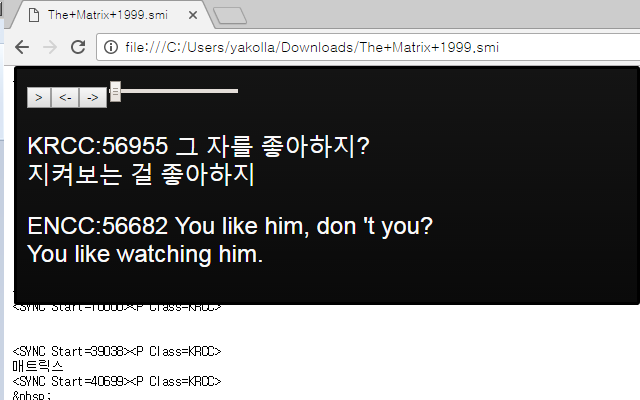
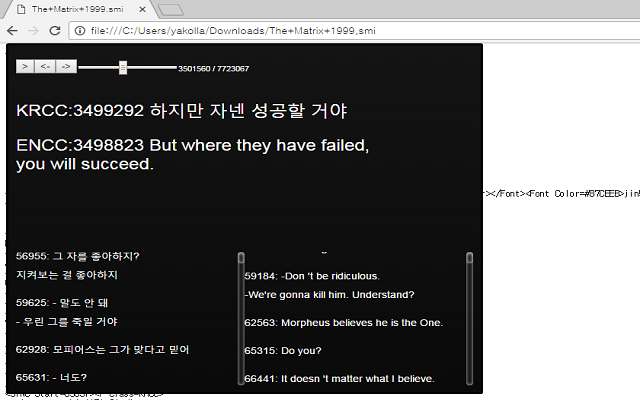
DD

diff --git a/contents.js b/contents.js
@@ -1,6 +1,6 @@
-var debug = false;
+var debug = true;
 var layerUICount = 0;
-var layerUIs = {};
+var fullTextLayerUIs = {};
 var sliderUI;
 var allSyncTimes = [];
 var subtitleSyncTimes = {};
@@ -76,18 +76,14 @@ function lazyLoading(str, info)
         allSyncTimes.push(info.startTime);
 
         subtitleTexts[info.langType][info.startTime] = info.smiText;
-
-        if (debug == true)
-        {
-            var smiLayer = layerUIs[info.langType];
-            if (null == smiLayer) {
-                smiLayer = createSMILayer(600, 250 * layerUICount);
-                layerUIs[info.langType] = smiLayer;
-                ++layerUICount;
-            }
-            smiLayer.innerHTML += "<p>" + info.startTime + ":" + info.smiText + "</p>";
-        }
         
+        var smiFullTextLayer = fullTextLayerUIs[info.langType];
+        if (null == smiFullTextLayer) {
+            smiFullTextLayer = createSMIFullTextLayer(sliderUI.smiLayer);
+            fullTextLayerUIs[info.langType] = smiFullTextLayer;
+            ++layerUICount;
+        }
+        smiFullTextLayer.innerHTML += "<p>" + info.startTime + ":" + info.smiText + "</p>";
             
         var lastSyncTime = syncTimes[syncTimes.length - 1];
         if (sliderUI.smiSlider.max < lastSyncTime)
@@ -140,8 +136,9 @@ function createSMISlider()
     myLayer.appendChild(myPlayTime);
 
     var myLayerContents = document.createElement('div');
-    myLayerContents.id = 'smiLayerContents';
+    myLayerContents.id = 'smiSyncTextLayer';
     myLayer.appendChild(myLayerContents);
+
     var timerId = null;
     myPlayButton.onclick = function () {
         
@@ -209,6 +206,15 @@ function createSMILayer(x, y) {
 
     myLayer.style.left = x;
     myLayer.style.top = y;
+
+    return myLayer;
+}
+
+function createSMIFullTextLayer(smiLayer) {
+
+    var myLayer = document.createElement('div');
+    myLayer.id = 'smiFullTextLayer';
+    smiLayer.appendChild(myLayer);
 
     return myLayer;
 }

diff --git a/t.css b/t.css
@@ -3,7 +3,7 @@
     color: black;
     position:fixed;
     max-width: 600px;
-    max-height: 250px;
+    max-height: 500px;
     width:600px;
     padding : 10px;    
     background : -webkit-linear-gradient(bottom, rgba(10, 10, 10, 1), rgba(20, 20, 20, 1));
@@ -45,16 +45,32 @@
     color: rgb(250,250,250);
 }
 
-#smiLayer::-webkit-scrollbar {
+::-webkit-scrollbar {
     width: 9px;
 }
  
-#smiLayer::-webkit-scrollbar-track {
+::-webkit-scrollbar-track {
     -webkit-box-shadow: inset 0 0 6px rgba(200,200,200,1); 
     border-radius: 10px;
 }
  
-#smiLayer::-webkit-scrollbar-thumb {
+::-webkit-scrollbar-thumb {
     border-radius: 10px;
     -webkit-box-shadow: inset 0 0 6px rgba(200,200,200,1); 
+}
+
+#smiFullTextLayer{
+    float:left;
+    font-size : 14px;
+    max-height: 250px;
+    width:50%;
+    height:200px;
+    overflow:auto;
+}
+
+#smiSyncTextLayer{
+    max-height: 250px;
+    width:100%;
+    height:250px;
+    overflow:auto;     
 }
